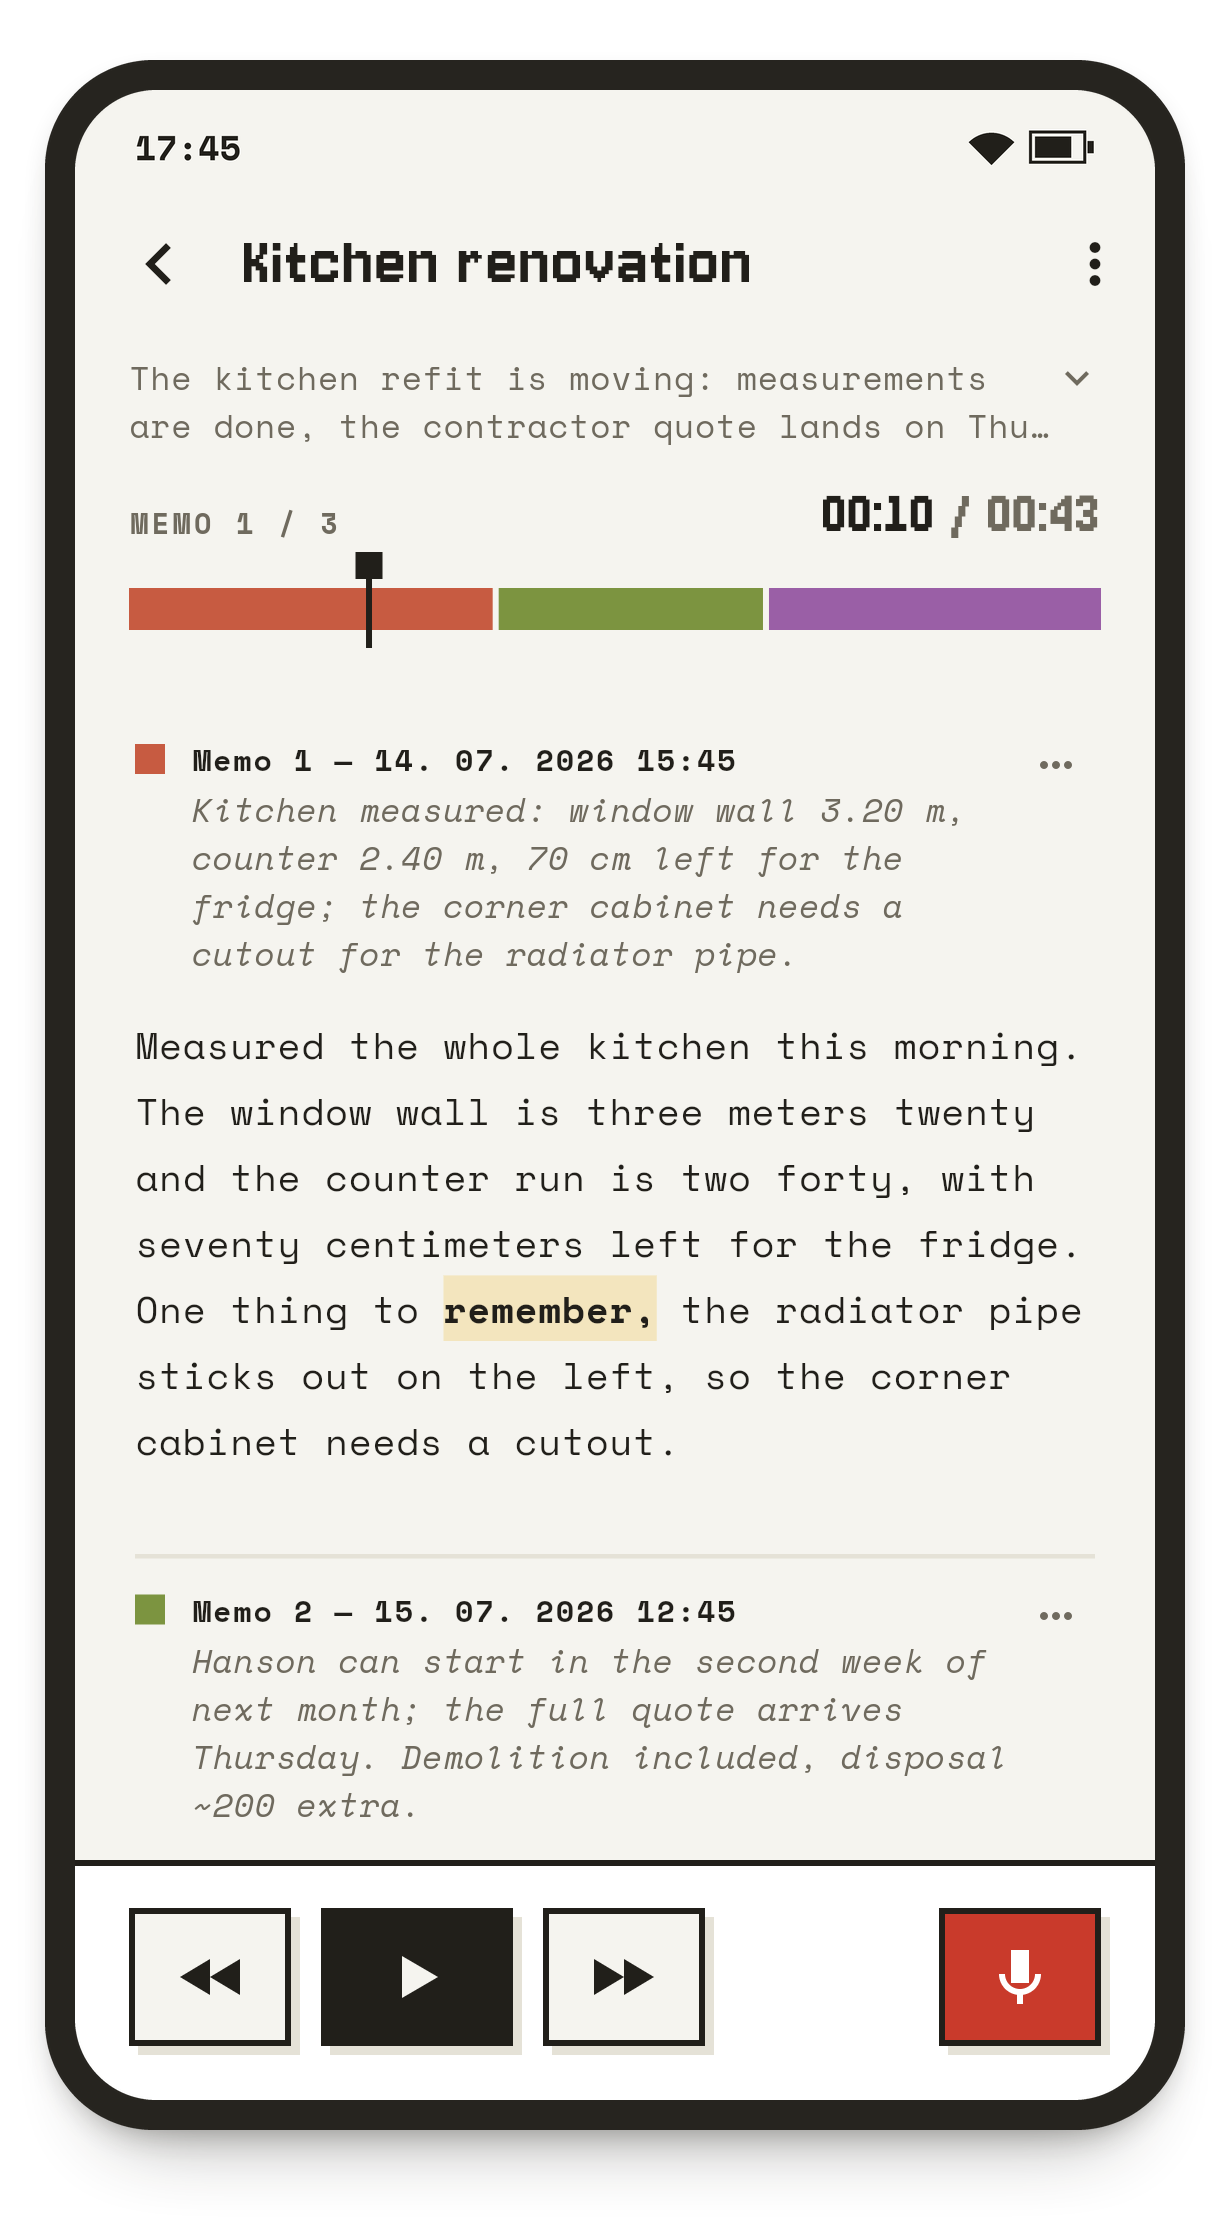
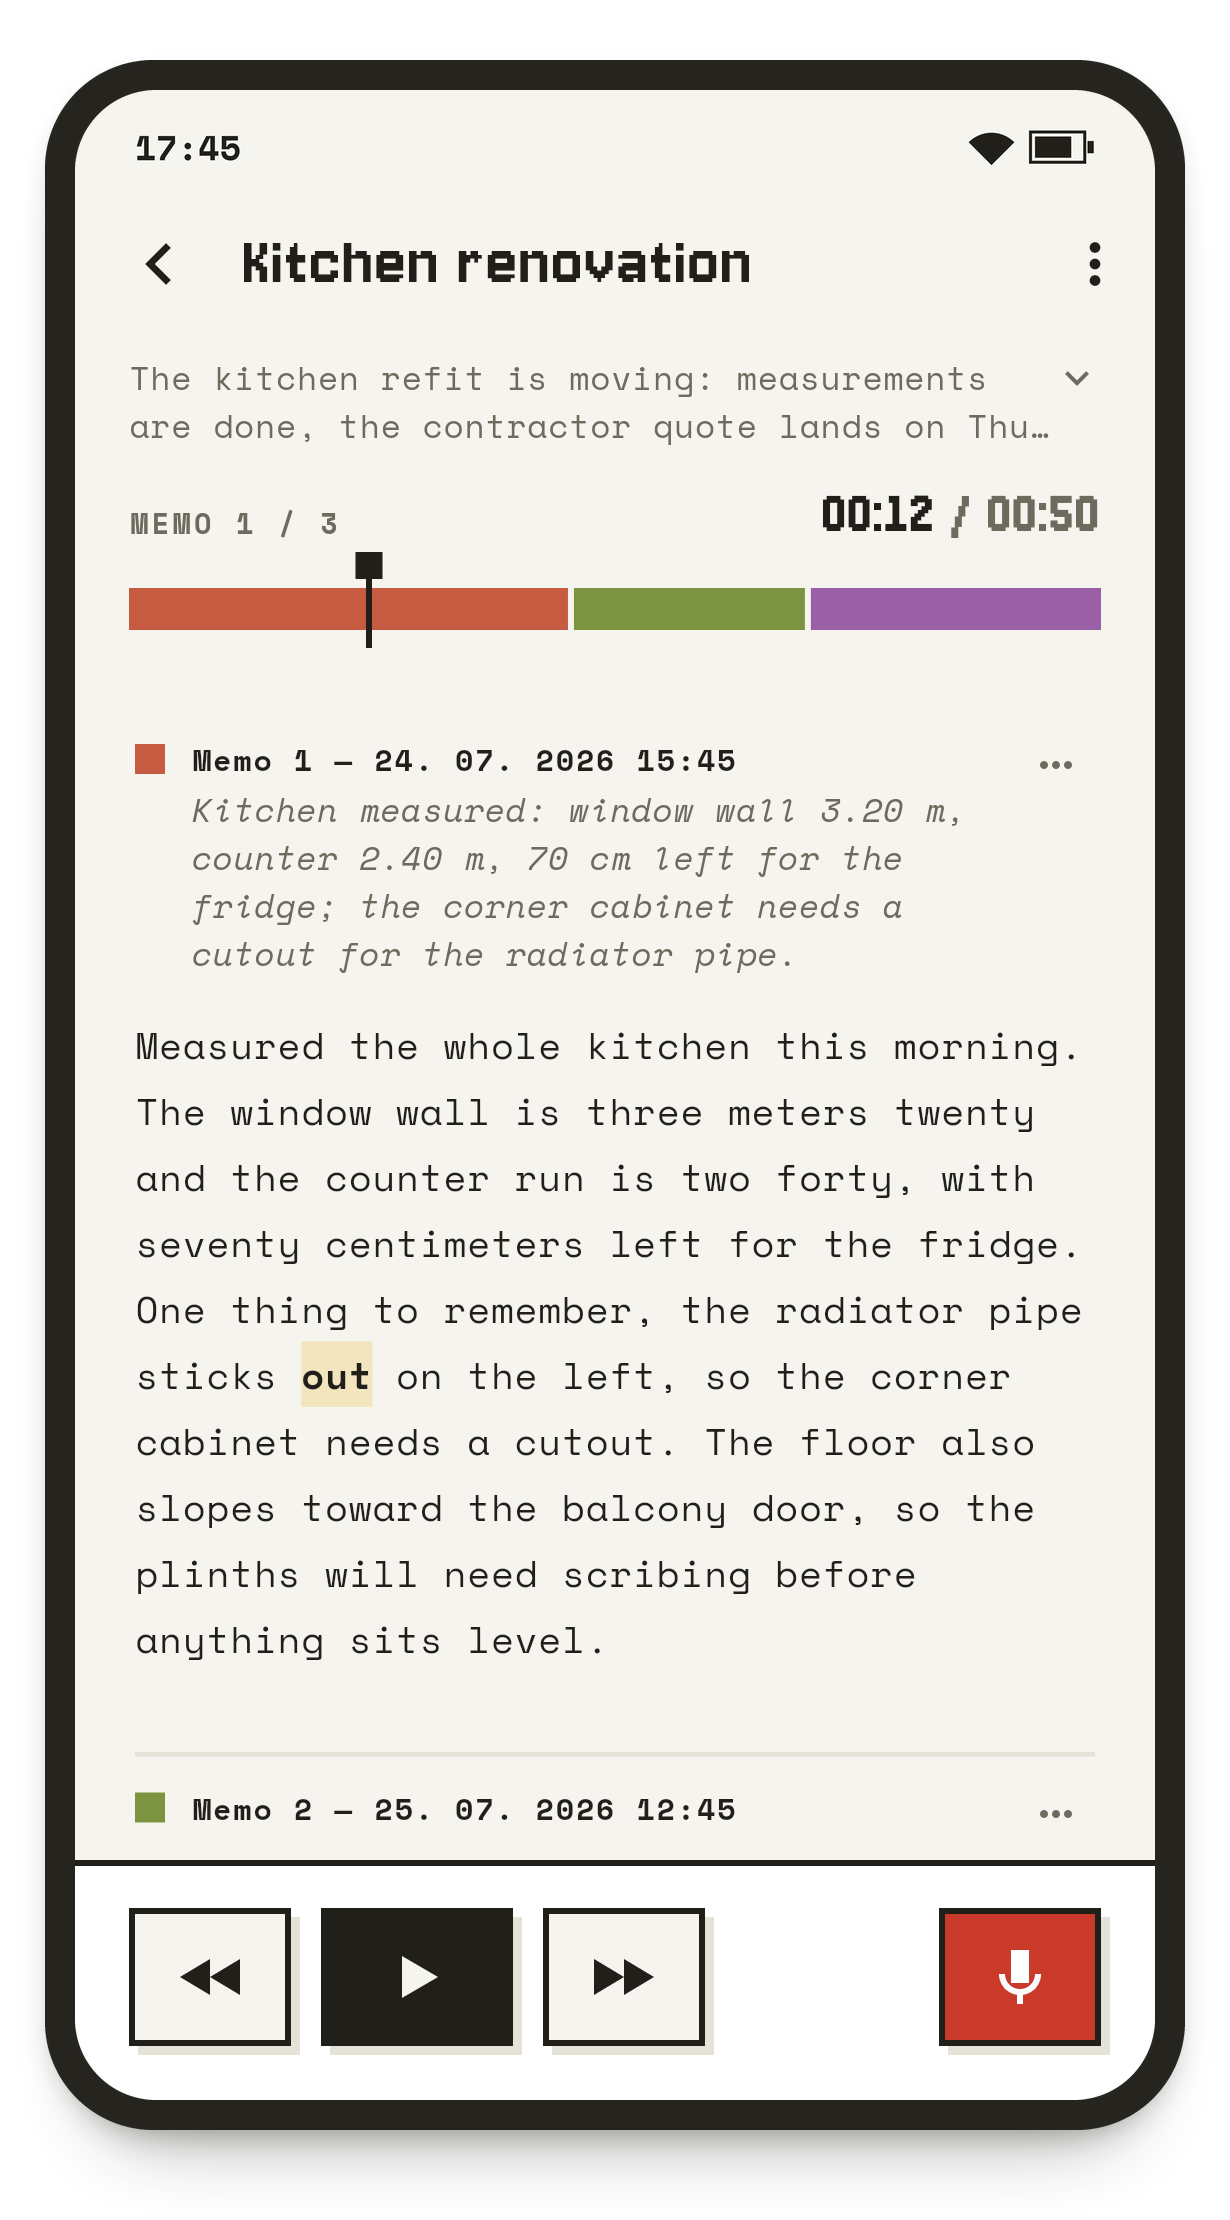
Store screenshots: honest demo data + no stale highlight while recording
The transcript suppresses the current-word highlight while recording — the
parked playback position is stale context (cassette_screen passes -1).
Screenshot fixture catches up with the 350-char gist gate (design.md §6.7):
memo 1's transcript grows past the gate so its gist is legitimate, the two
short memos lose theirs, as the app would leave them. Refreshed README
media (phone frames) from the recapture.

diff --git a/integration_test/store_screenshots_test.dart b/integration_test/store_screenshots_test.dart
@@ -267,12 +267,17 @@ void main() {
     );
     final kitchenAudio = Directory('${audioDir.path}/c-kitchen')
       ..createSync(recursive: true);
+    // Only the first memo's transcript clears the 350-char gist gate
+    // (design.md §6.7) — the short ones stay gistless, as the app would
+    // leave them.
     await memo('c-kitchen', 'm-measure', ago(days: 3, hours: 2), sentences: [
       'Measured the whole kitchen this morning.',
       'The window wall is three meters twenty and the counter run is two '
           'forty, with seventy centimeters left for the fridge.',
       'One thing to remember, the radiator pipe sticks out on the left, so '
           'the corner cabinet needs a cutout.',
+      'The floor also slopes toward the balcony door, so the plinths will '
+          'need scribing before anything sits level.',
     ], gist: 'Kitchen measured: window wall 3.20 m, counter 2.40 m, 70 cm '
         'left for the fridge; the corner cabinet needs a cutout for the '
         'radiator pipe.');
@@ -281,8 +286,7 @@ void main() {
       'He can start in the second week of next month and the full number '
           'arrives by Thursday.',
       'Demolition is included but disposal is extra, roughly two hundred.',
-    ], gist: 'Hanson can start in the second week of next month; the full '
-        'quote arrives Thursday. Demolition included, disposal ~200 extra.');
+    ]);
     await memo('c-kitchen', 'm-colors', ago(minutes: 20), sentences: [
       'Cabinet colors, round three.',
       'I keep coming back to sage green, but the off-white would make the '
@@ -290,8 +294,7 @@ void main() {
       'Maybe green below and white above.',
       'Also decided that every appliance stays except the oven, that one '
           'is done for.',
-    ], gist: 'Cabinet color is down to sage green vs. off-white, possibly '
-        'split. All appliances stay except the oven.');
+    ]);
     // Real (tone) audio so the tape player has files to load.
     for (final f in ['m-measure', 'm-quote', 'm-colors']) {
       File('${kitchenAudio.path}/$f.wav')

diff --git a/lib/presentation/screens/cassette_screen.dart b/lib/presentation/screens/cassette_screen.dart
@@ -224,7 +224,9 @@ class _CassetteScreenState extends ConsumerState<CassetteScreen>
                     child: TranscriptView(
                       tape: tape,
                       colorSeed: cassette.colorSeed,
-                      globalMs: playback.globalMs,
+                      // While recording, the parked playback position is
+                      // stale context — no word deserves a highlight.
+                      globalMs: isRecordingHere ? -1 : playback.globalMs,
                       currentMemoIndex: playback.memoIndex,
                       playing: playback.playing,
                       seekCount: playback.seekCount,
